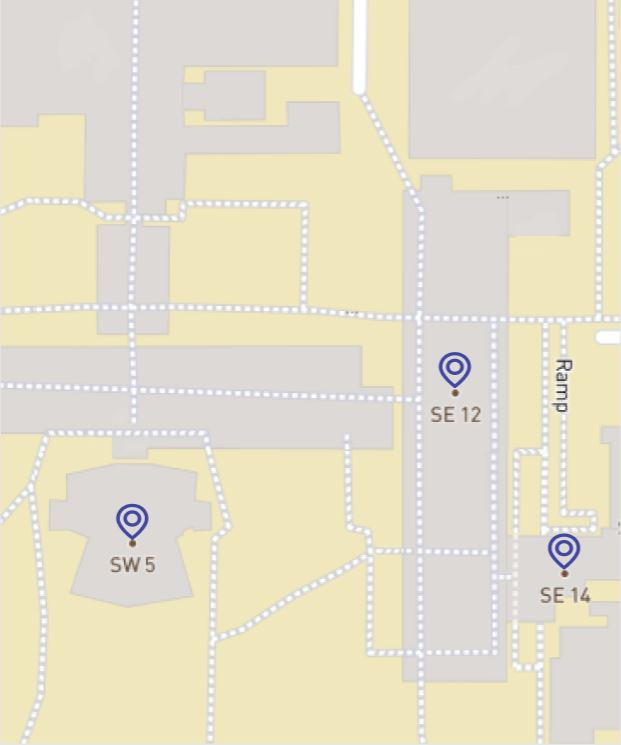
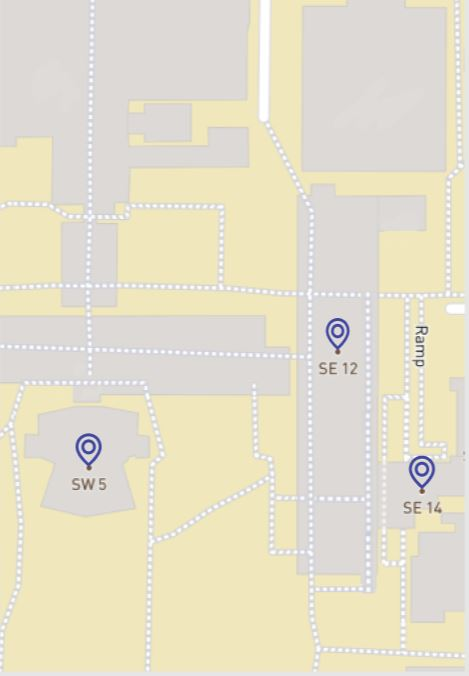
fixed map

diff --git a/styles/main.css b/styles/main.css
@@ -46,8 +46,10 @@ form{
 }
 figure{
     background-image: url(/Images/Interactive.jpg);
+    background-repeat: no-repeat;
+    background-position: center;
     background-size: cover;
-    background-repeat: none;
+    background-position:fixed;
     grid-column: 1/span 100;
     grid-row: 19/ span 81;
 }
